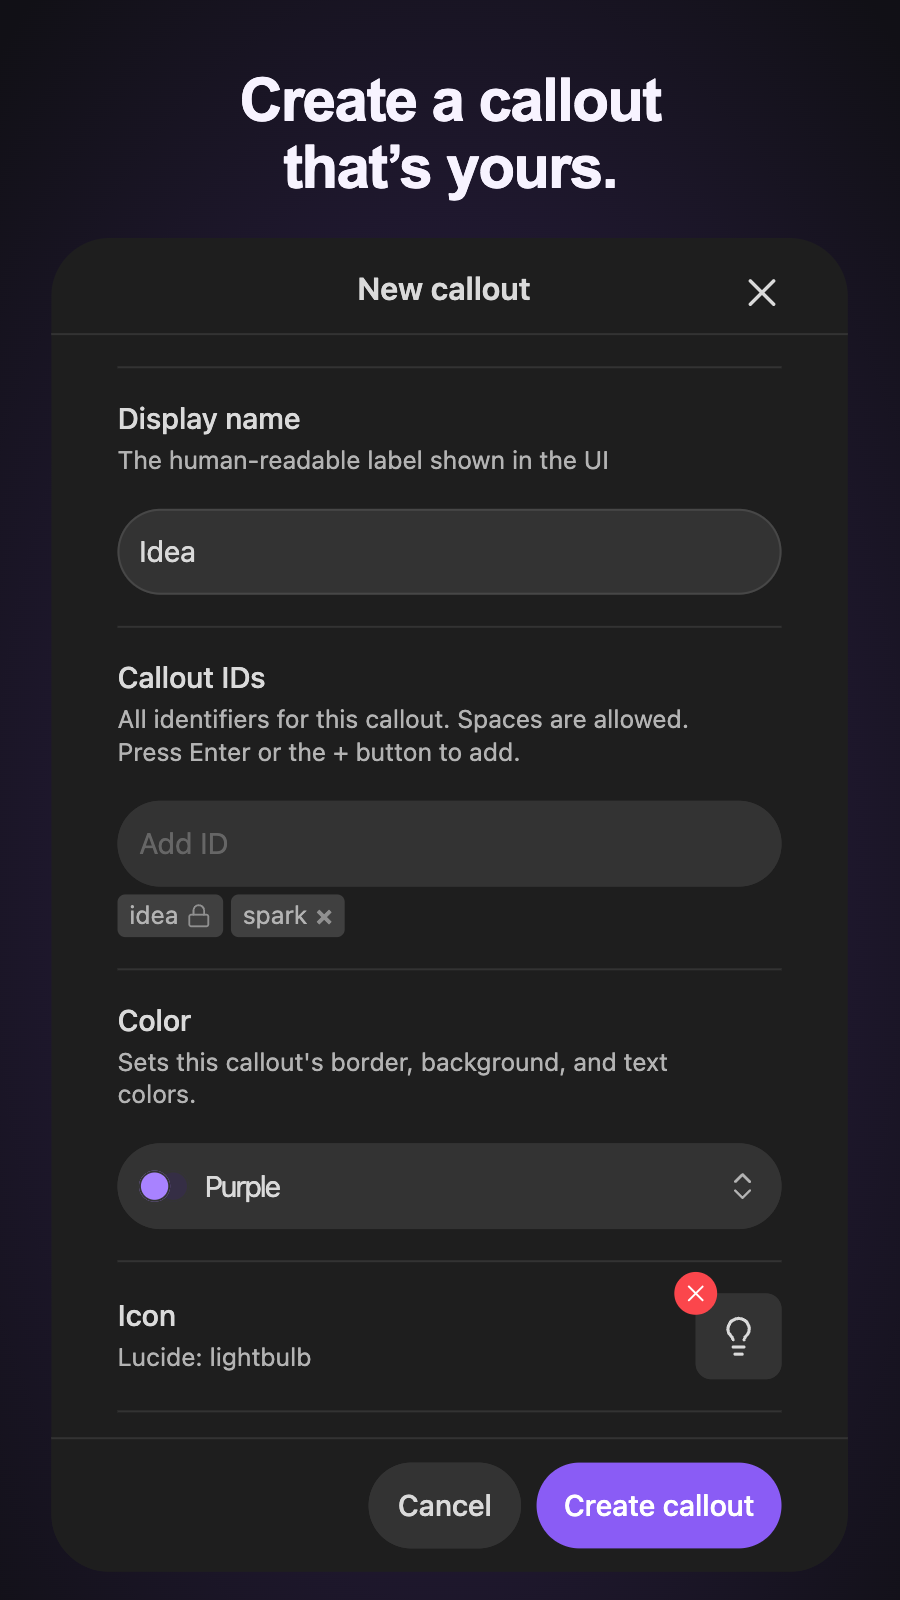
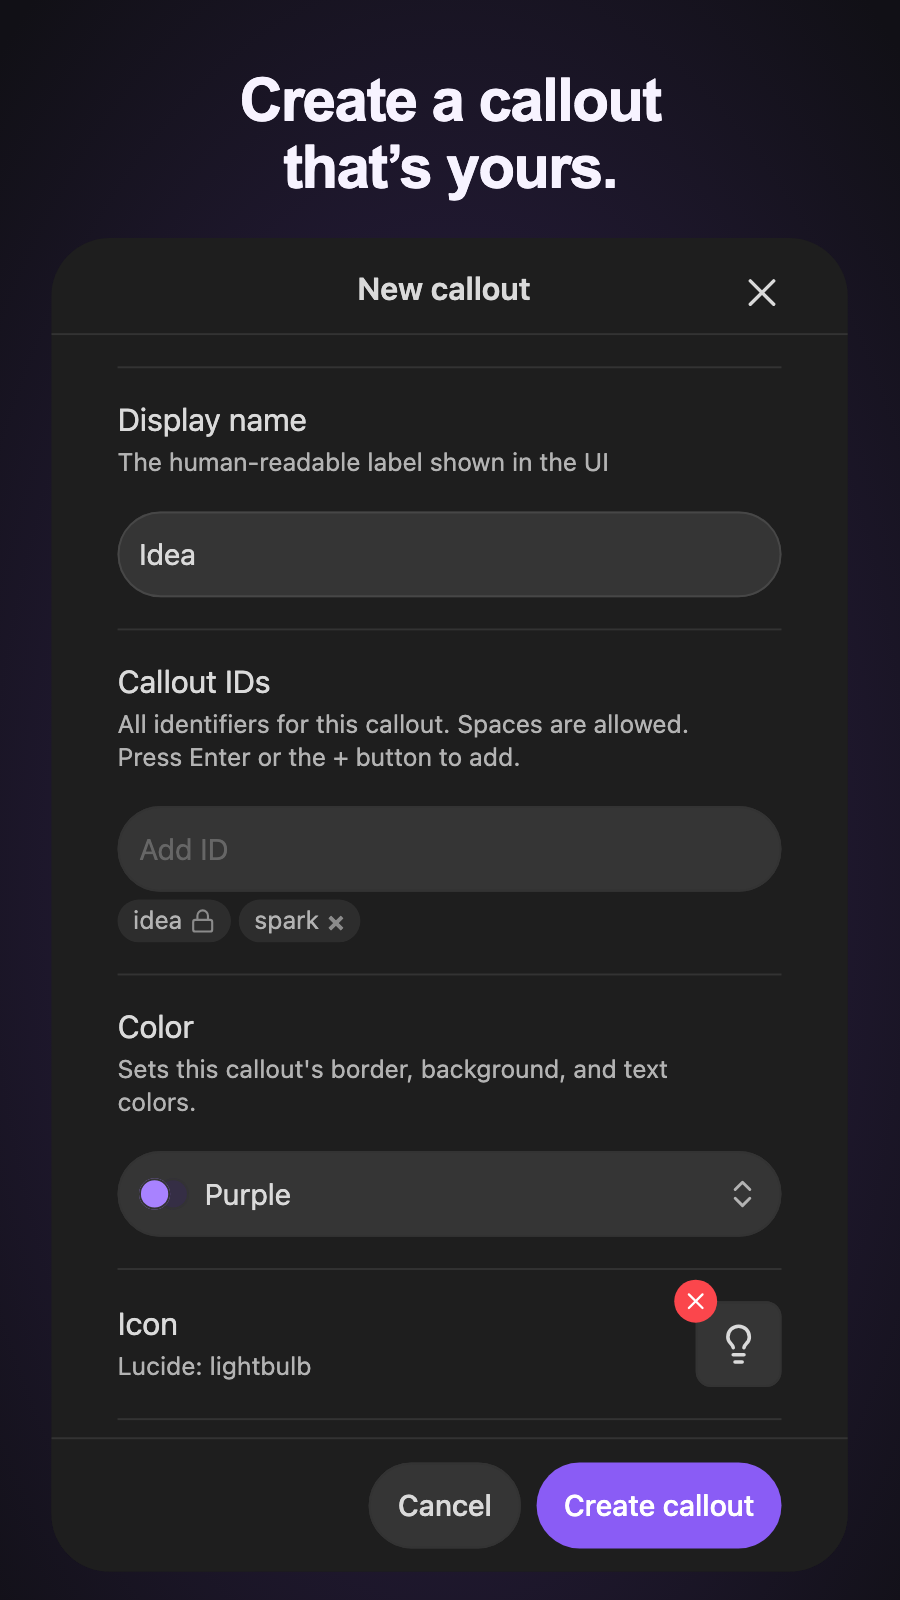
Round ID chips on mobile, refresh phone screenshot

diff --git a/tests/tagChipCorners.test.ts b/tests/tagChipCorners.test.ts
@@ -1,0 +1,54 @@
+/** ID chips wear the IDs field's corners on mobile and keep their own on desktop. */
+import assert from "node:assert";
+import { describe, it } from "node:test";
+import { readFileSync } from "node:fs";
+import { join } from "node:path";
+
+const css = readFileSync(join(process.cwd(), "styles.css"), "utf8").replace(
+	/\/\*[\s\S]*?\*\//g,
+	"",
+);
+const rules: { selectors: string[]; body: string }[] = [];
+const pattern = /([^{}]+)\{([^{}]*)\}/g;
+let match: RegExpExecArray | null;
+while ((match = pattern.exec(css)) !== null) {
+	rules.push({
+		selectors: (match[1] ?? "").trim().split(/,\s*\n/).map((s) => s.trim().replace(/\s+/g, " ")),
+		body: match[2] ?? "",
+	});
+}
+function ruleFor(selector: string) {
+	const hits = rules.filter((rule) => rule.selectors.includes(selector));
+	assert.strictEqual(hits.length, 1, `expected one rule for ${selector}`);
+	return hits[0]!;
+}
+function declarationOf(body: string, property: string): string | undefined {
+	return body
+		.split(";")
+		.map((d) => d.trim())
+		.find((d) => d.startsWith(`${property}:`));
+}
+
+const FIELD = ".cs-text-control.cs-text-control.cs-text-control.cs-text-control";
+
+describe("ID chips under the IDs field", () => {
+	it("keep the small desktop radius by default", () => {
+		assert.strictEqual(
+			declarationOf(ruleFor(".cs-tag-chip").body, "border-radius"),
+			"border-radius: var(--radius-s)",
+		);
+	});
+
+	it("take the field's own corner tokens wherever Obsidian makes fields pills", () => {
+		// Obsidian sets `--input-radius` to a pill under `.is-mobile` (phone and
+		// tablet), so the chips must read the very same declarations as the field.
+		const field = rules.find((rule) => rule.selectors.includes(FIELD));
+		assert.ok(field, "the shared field base must exist");
+		const chip = ruleFor(".is-mobile .cs-tag-chip");
+		for (const property of ["border-radius", "corner-shape"]) {
+			const expected = declarationOf(field.body, property);
+			assert.ok(expected, `the field declares ${property}`);
+			assert.strictEqual(declarationOf(chip.body, property), expected, property);
+		}
+	});
+});

diff --git a/styles.css b/styles.css
@@ -5506,6 +5506,16 @@ input.cs-input-invalid.cs-input-invalid.cs-input-invalid.cs-input-invalid:focus 
 	user-select: none;
 }
 
+/* On mobile Obsidian turns every field into a pill (`--input-radius` is
+   `--touch-radius-m` under `.is-mobile`), so a 4px chip sat square under a round
+   field. There the chips take the field's own corners; desktop keeps
+   `--radius-s`. The extra inline padding keeps the text clear of the curve. */
+.is-mobile .cs-tag-chip {
+	padding-inline: 8px;
+	border-radius: var(--input-radius, var(--radius-s));
+	corner-shape: var(--input-corner-shape, round);
+}
+
 .cs-tag-chip-text {
 	pointer-events: none;
 	display: inline-block;

diff --git a/docs/internals-docs/16-settings-ui-and-modals.md b/docs/internals-docs/16-settings-ui-and-modals.md
@@ -1501,6 +1501,15 @@ the field's corner. Anything new that overlays a field edge should derive its
 radius from `--input-radius` the same way. The combobox's inner input stays at
 `border-radius: 0`; its wrapper owns the corner.
 
+The ID chips under the IDs field (`.cs-tag-chip`) keep `--radius-s` on
+desktop, where a 4px chip under a 5–8px field reads as one family. Under
+`.is-mobile` they take the field's own two declarations instead, plus 8px of
+inline padding to keep the text off the curve: a 4px chip sitting square under
+a pill-shaped field looked like a mistake on the phone. They follow the token
+rather than a fixed pill, so a theme that squares mobile fields squares the
+chips too. `tests/tagChipCorners.test.ts` holds the chip to the field's
+declarations.
+
 `tests/inputPointerStability.test.ts` pins the declarations. To confirm the
 computed numbers, render a native `button`, `input`, `select` and `textarea`
 beside the plugin's fields under the harness linked above, with body classes

diff --git a/docs/internals-docs/20-build-test-release.md b/docs/internals-docs/20-build-test-release.md
@@ -341,7 +341,10 @@ have lossless WebP exports in their respective `webp/` directories for web
 and GitHub display. Exports retain the native 1200 × 800 or 900 × 1600 canvas
 and are individually below 5 MB. Each decoded WebP was checked against the
 source raster for pixel equality; WebP was smaller than PNG in eight of the
-nine comparison exports and smaller across the set overall. The renderers write
+nine comparison exports and smaller across the set overall. The source raster is
+a Chromium screenshot of the SVG at its own size and a device scale of 1 (not
+`rsvg-convert`, whose text differs), encoded with `cwebp -lossless -z 9`.
+Re-export a WebP the same way after re-rendering its SVG. The renderers write
 SVG artwork only; open the SVGs directly for review. Temporary raster previews
 for visual QA belong outside the deliverable directory.
 
